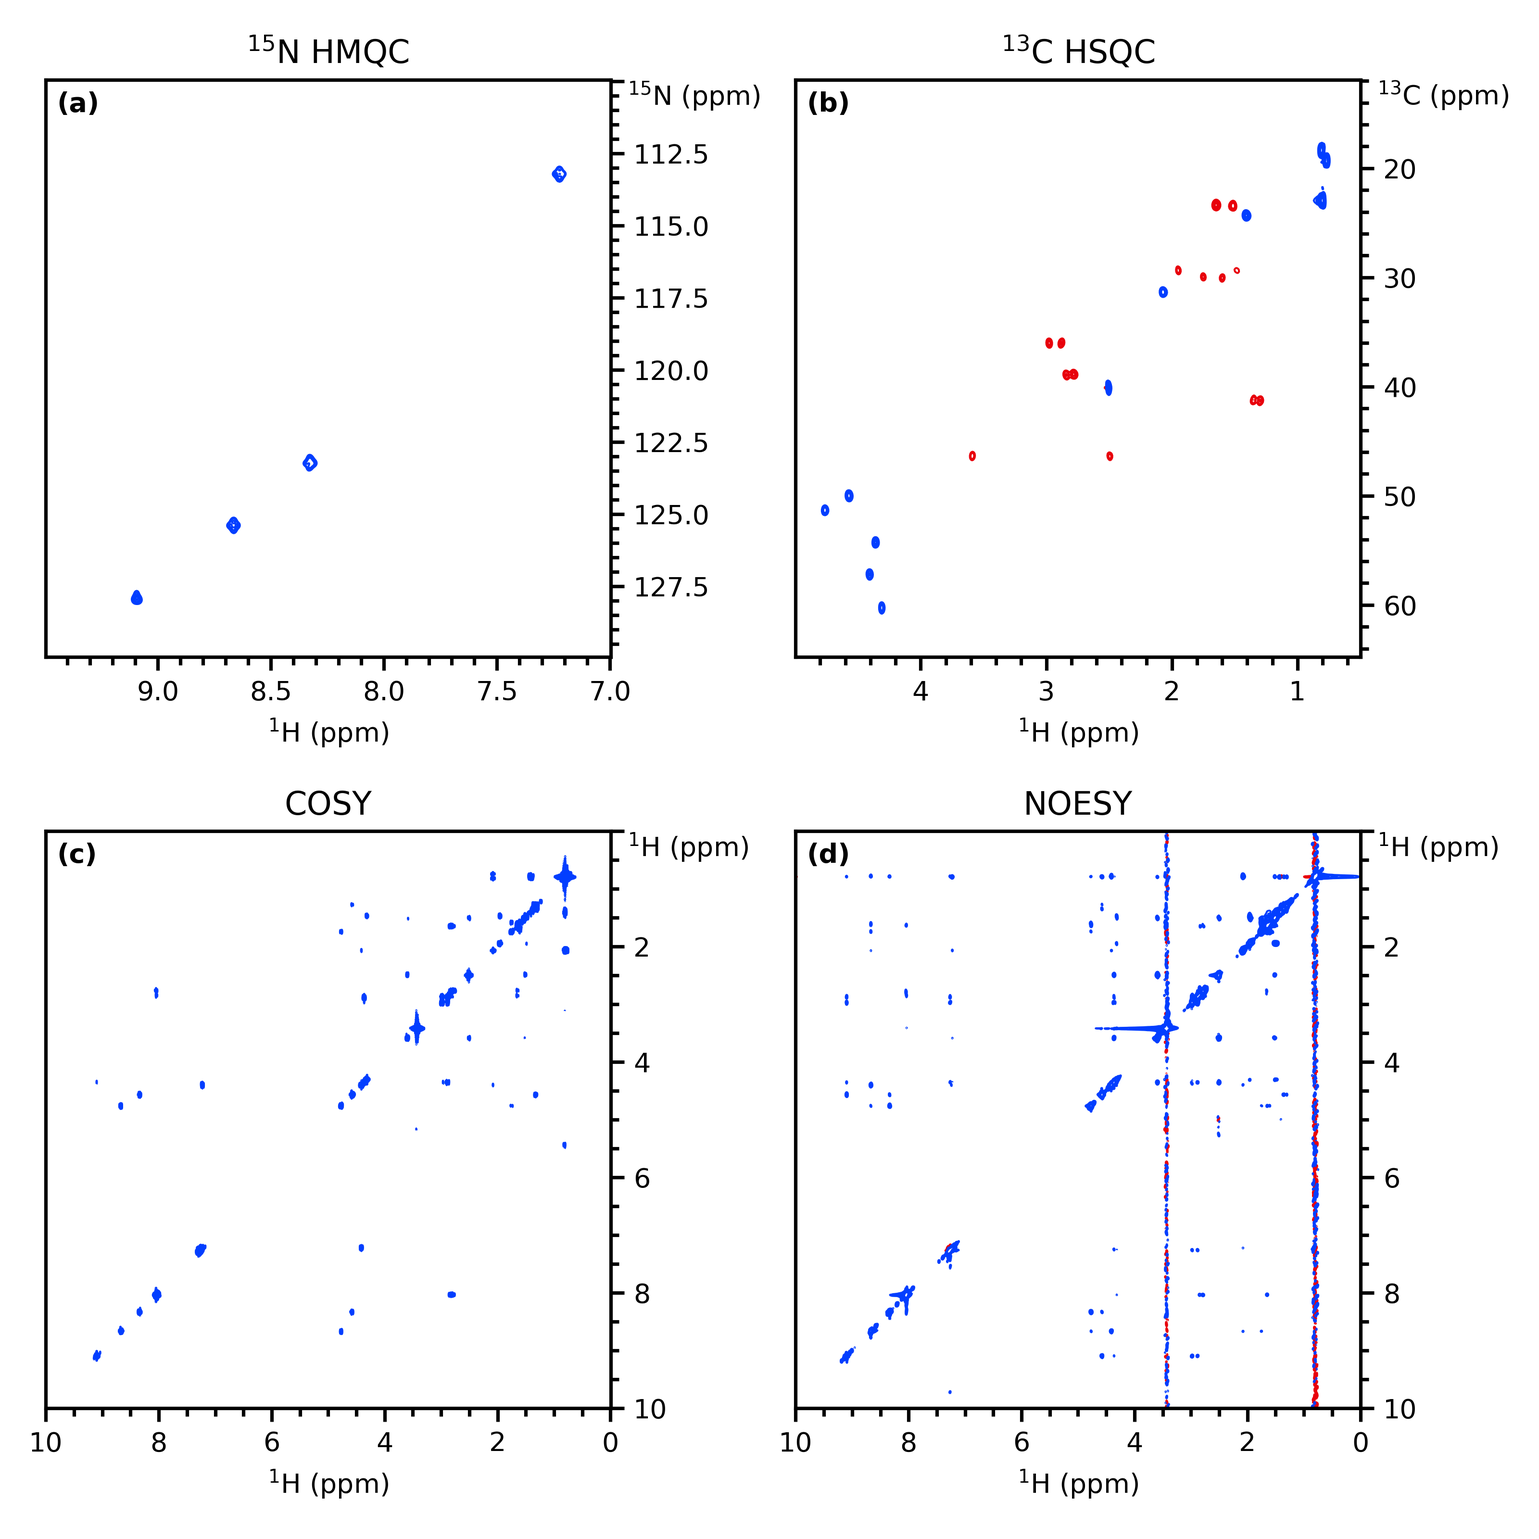
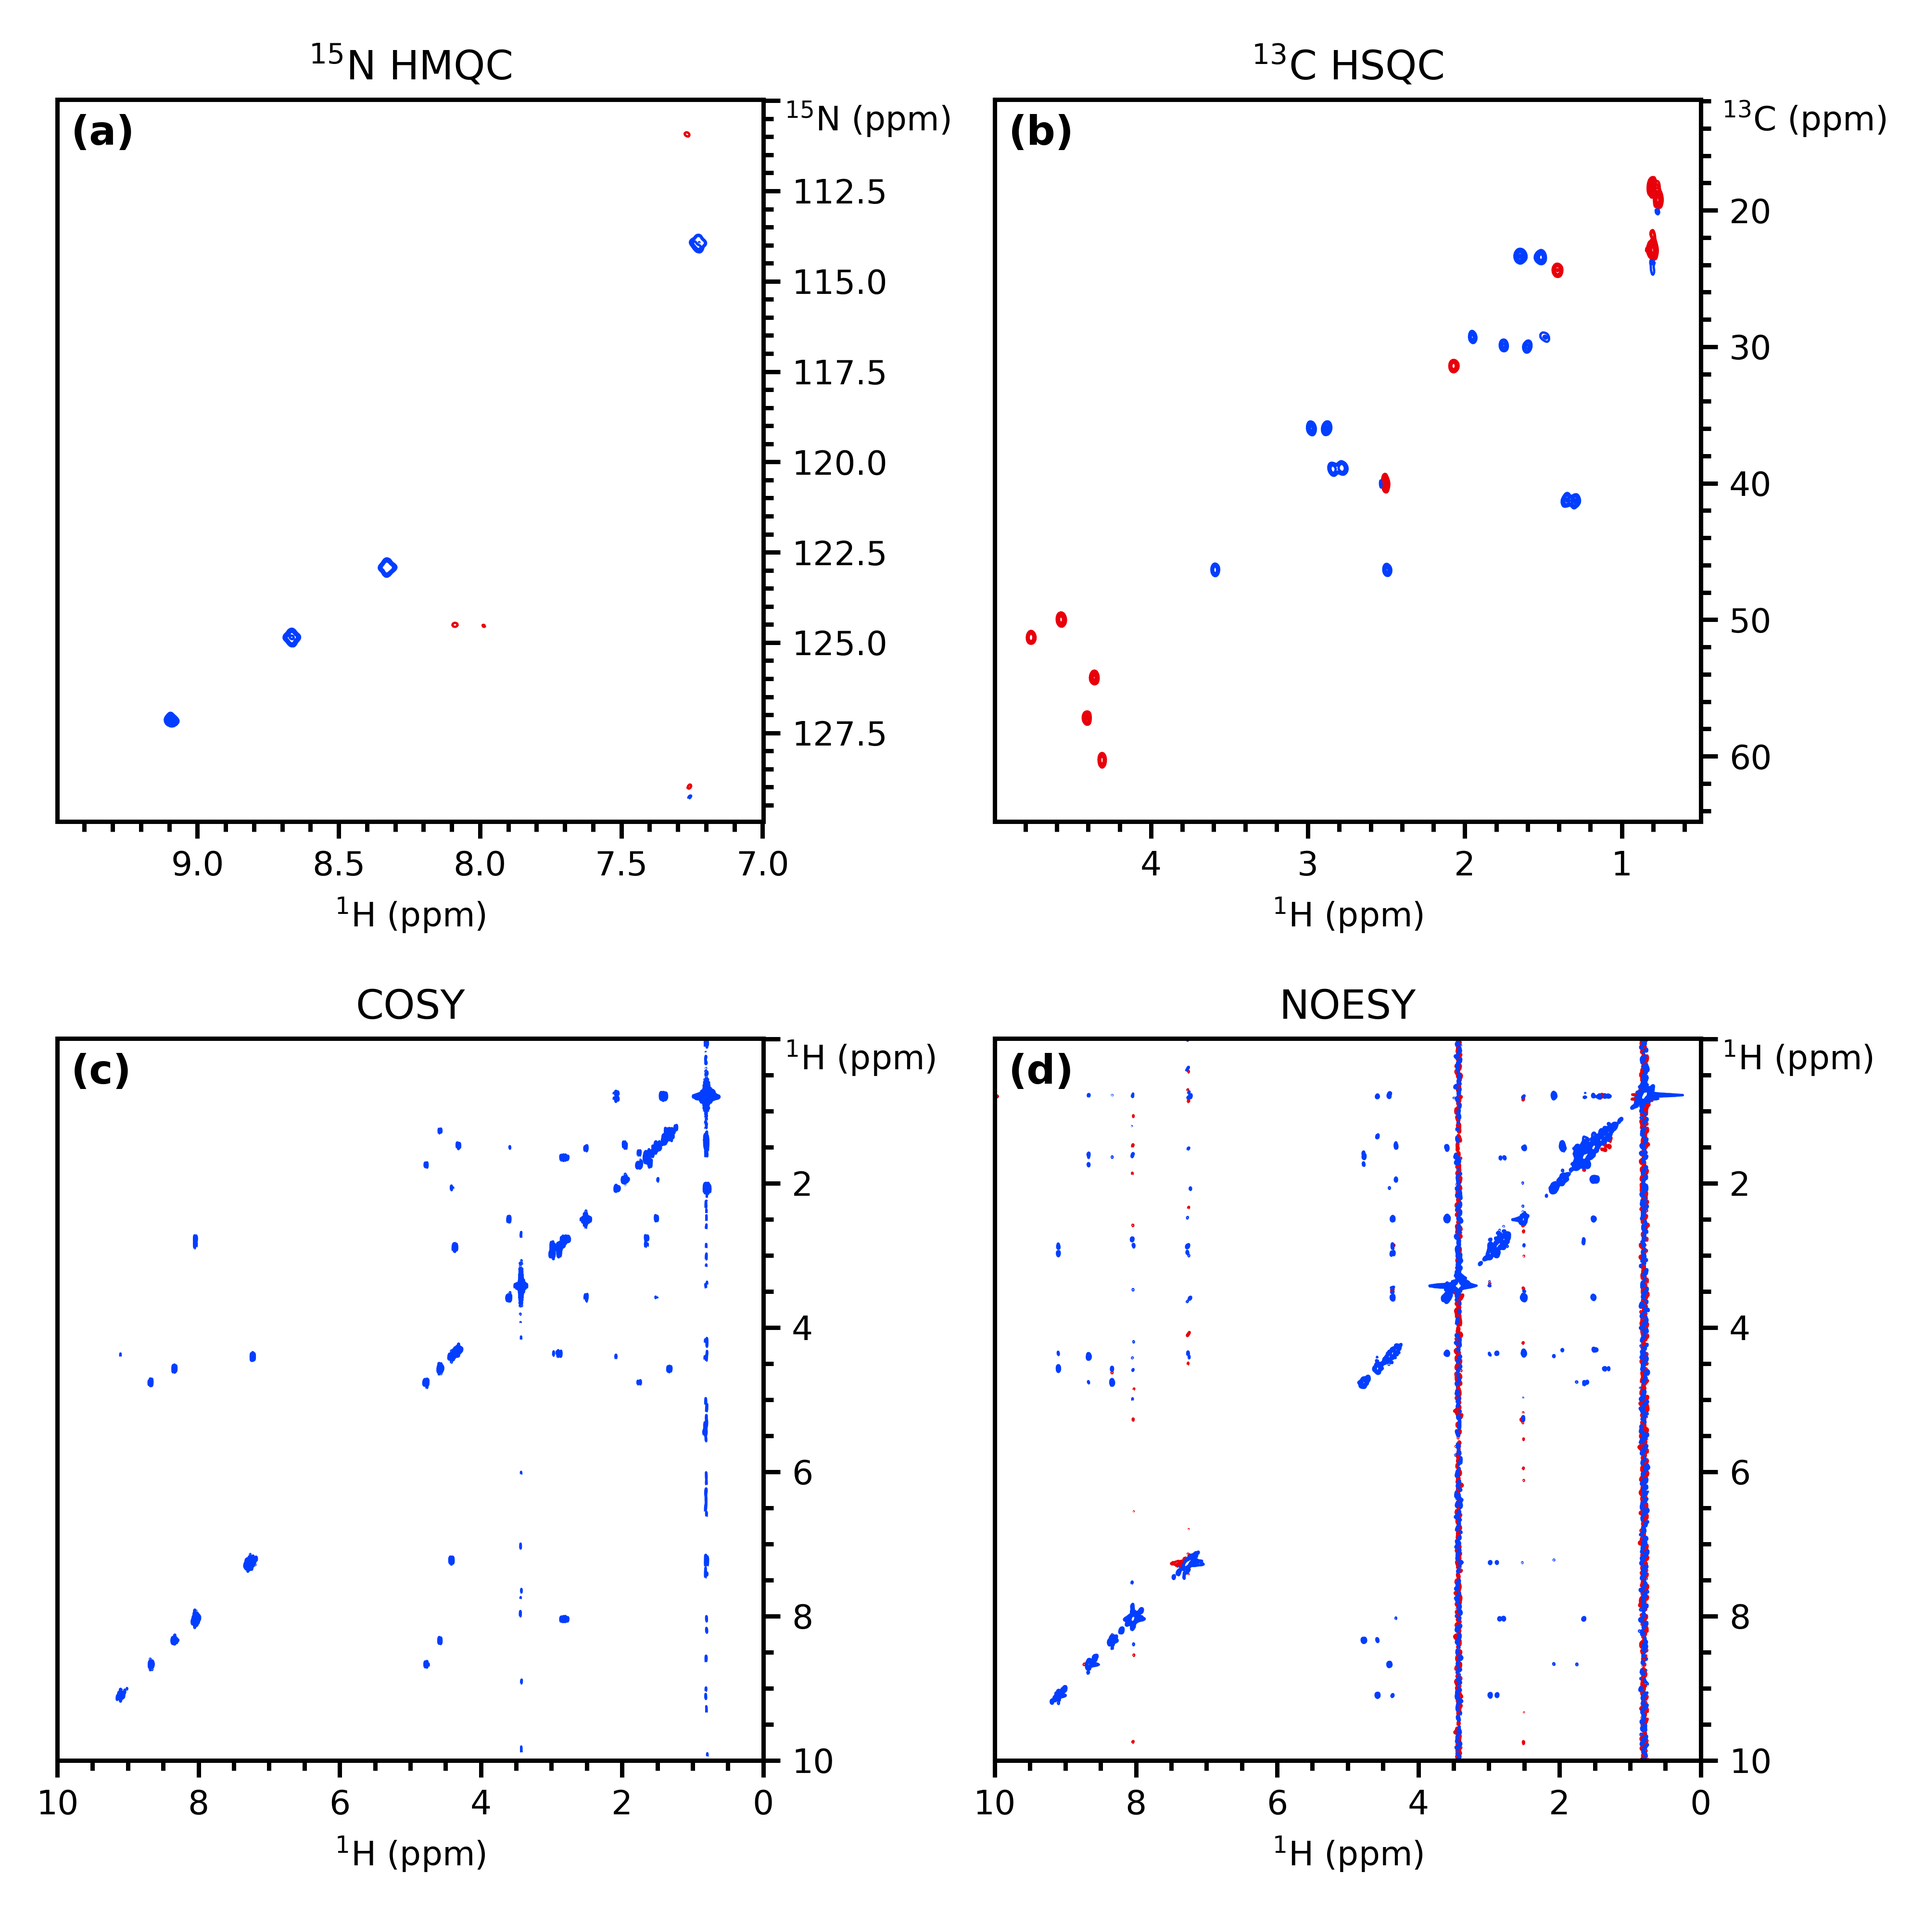
Update example plot in README

diff --git a/readme_example.py b/readme_example.py
@@ -1,0 +1,18 @@
+import penguins as pg
+hmqc, hsqc, cosy, noesy = (pg.read("penguins-testdata", expno)
+                           for expno in range(22001, 22005))
+
+fig, axs = pg.subplots2d(2, 2)
+hmqc.stage(axs[0, 0], levels=7e3, f1_bounds="110..130", f2_bounds="7..9.5")
+hsqc.stage(axs[0, 1], levels=4e4, f1_bounds="12..65", f2_bounds="0.5..5")
+cosy.stage(axs[1, 0], levels=8e5)
+noesy.stage(axs[1, 1], levels=1e5)
+
+titles = [r"$^{15}$N HMQC", r"$^{13}$C HSQC", "COSY", "NOESY"]
+for ax, title in zip(axs.flat, titles):
+    pg.mkplot(ax, title=title)
+    pg.ymove(ax, pos="topright")
+
+pg.label_axes(axs, fstr="({})", fontweight="semibold", fontsize=12)
+pg.cleanup_axes()
+pg.savefig("./docs/images/readme_example.png", dpi=500)

diff --git a/README.md b/README.md
@@ -28,21 +28,21 @@ And here's a similar plot that can be done in under 20 lines of PEP8-compliant c
 
 ```python
 import penguins as pg
-hmqc, hsqc, cosy, noesy = (pg.read("tests/data/noah", i, 1)
-                           for i in range(1, 5))
+hmqc, hsqc, cosy, noesy = (pg.read("penguins-testdata", expno)
+                           for expno in range(22001, 22005))
 
 fig, axs = pg.subplots2d(2, 2)
 hmqc.stage(axs[0, 0], levels=7e3, f1_bounds="110..130", f2_bounds="7..9.5")
 hsqc.stage(axs[0, 1], levels=4e4, f1_bounds="12..65", f2_bounds="0.5..5")
 cosy.stage(axs[1, 0], levels=8e5)
-noesy.stage(axs[1, 1], levels=9e4)
+noesy.stage(axs[1, 1], levels=1e5)
 
 titles = [r"$^{15}$N HMQC", r"$^{13}$C HSQC", "COSY", "NOESY"]
 for ax, title in zip(axs.flat, titles):
     pg.mkplot(ax, title=title)
     pg.ymove(ax, pos="topright")
 
-pg.label_axes(s=f"({})", fontweight="semibold")
+pg.label_axes(axs, fstr="({})", fontweight="semibold", fontsize=12)
 pg.cleanup_axes()
 pg.show()
 ```
